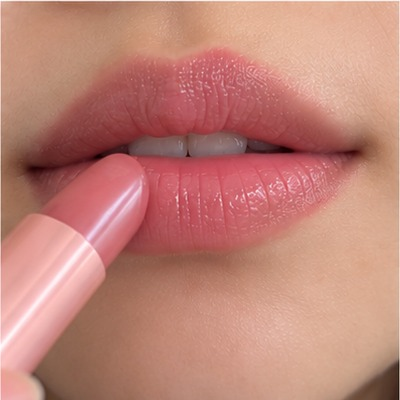
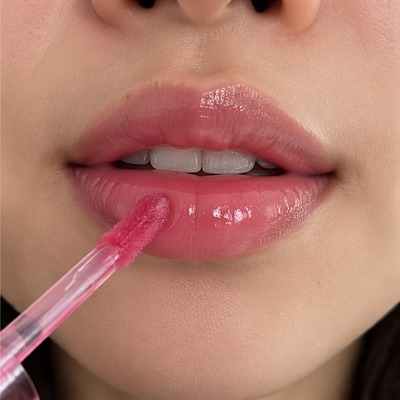
Replace three step photos so they match their instructions
Claude-Session: https://claude.ai/code/session_01QjyzJYtaNUJJbBbkSYZwKh

diff --git a/service-worker.js b/service-worker.js
@@ -1,4 +1,4 @@
-const CACHE='bloom-zen-v1-candidate-20261031-looks-prizes-v28'; const FILES=['./assets/prizes/r01.png','./assets/prizes/r02.png','./assets/prizes/r03.png','./assets/prizes/r04.png','./assets/prizes/r05.png','./assets/prizes/r06.png','./assets/prizes/s07.png','./assets/prizes/s08.png','./assets/prizes/s09.png','./assets/prizes/s10.png','./assets/prizes/s11.png','./assets/prizes/s12.png','./assets/prizes/s14.png','./assets/prizes/m02.png','./assets/prizes/m03.png','./assets/prizes/m04.png','./assets/prizes/m06.png','./assets/prizes/m07.png','./assets/prizes/m08.png','./assets/prizes/m09.png','./prizes/backup.js','./prizes/catalog.js','./prizes/core.js','./prizes/ui.js','./prizes/prizes.css','./assets/prizes/art-01.png','./assets/prizes/art-02.png','./assets/prizes/art-03.png','./assets/prizes/art-04.png','./assets/prizes/art-05.png','./assets/prizes/art-06.png','./assets/prizes/art-07.png','./assets/prizes/art-08.png','./assets/prizes/art-09.png','./assets/prizes/art-10.png','./assets/prizes/art-11.png','./assets/prizes/art-12.png','./assets/companion/awake.webp','./assets/companion/happy.webp','./assets/companion/sleep.webp','./assets/companion/moss-buddy.png','./','./index.html','./bloom-core.js','./receipt-parser.js','./receipt-image.js','./receipt-invoice.js','./recipe-drafts.js','./recipe-moods.js','./recipe-response.js','./recipe-media.js','./vendor/ocr/tesseract.min.js','./vendor/ocr/worker.min.js',...['mapo-tofu','doenjang-stew','garlic-tofu-bowl','coconut-seafood-noodles','kimchi-egg-rice','dumpling-soup','tuna-mayo-rice','garlic-edamame'].map(id=>'./assets/recipes/'+id+'.png'),...['date-brows-1.jpg', 'date-brows-2.jpg', 'date-brows-3.jpg', 'date-eyes-1.jpg', 'date-eyes-2.jpg', 'date-eyes-3.jpg', 'date-eyes-4.jpg', 'date-hair-1.jpg', 'date-hair-2.jpg', 'date-hair-3.jpg', 'date-hair-4.jpg', 'date-hero.jpg', 'date-lips-1.jpg', 'date-lips-2.jpg', 'date-lips-3.jpg', 'date-lips-4.jpg', 'date-skin-1.jpg', 'date-skin-2.jpg', 'date-skin-3.jpg', 'date-skin-4.jpg', 'event-brows-1.jpg', 'event-brows-2.jpg', 'event-brows-3.jpg', 'event-eyes-1.jpg', 'event-eyes-2.jpg', 'event-eyes-3.jpg', 'event-hair-1.jpg', 'event-hair-2.jpg', 'event-hair-3.jpg', 'event-hero.jpg', 'event-lips-1.jpg', 'event-lips-2.jpg', 'event-lips-3.jpg', 'event-skin-1.jpg', 'event-skin-2.jpg', 'event-skin-3.jpg', 'lazy-brows-1.jpg', 'lazy-eyes-1.jpg', 'lazy-eyes-2.jpg', 'lazy-hair-1.jpg', 'lazy-hair-2.jpg', 'lazy-hair-3.jpg', 'lazy-hero.jpg', 'lazy-lips-1.jpg', 'lazy-skin-1.jpg', 'lazy-skin-2.jpg', 'office-brows-1.jpg', 'office-brows-2.jpg', 'office-brows-3.jpg', 'office-eyes-1.jpg', 'office-eyes-2.jpg', 'office-eyes-3.jpg', 'office-hair-1.jpg', 'office-hair-2.jpg', 'office-hair-3.jpg', 'office-hero.jpg', 'office-lips-1.jpg', 'office-lips-2.jpg', 'office-skin-1.jpg', 'office-skin-2.jpg', 'office-skin-3.jpg', 'street-brows-1.jpg', 'street-brows-2.jpg', 'street-eyes-1.jpg', 'street-eyes-2.jpg', 'street-hair-1.jpg', 'street-hair-2.jpg', 'street-hair-3.jpg', 'street-hero.jpg', 'street-lips-1.jpg', 'street-skin-1.jpg', 'street-skin-2.jpg', 'street-skin-3.jpg', 'glass-hero.jpg', 'glass-base-1.jpg', 'glass-base-2.jpg', 'glass-spf-1.jpg', 'glass-cc-1.jpg', 'glass-blush-1.jpg', 'glass-lips-1.jpg', 'cherry-hero.jpg', 'cherry-spf-1.jpg', 'cherry-cushion-1.jpg', 'cherry-brows-1.jpg', 'cherry-lashes-1.jpg', 'cherry-lashes-2.jpg', 'cherry-blush-1.jpg', 'cherry-lips-1.jpg', 'grunge-hero.jpg', 'grunge-spf-1.jpg', 'grunge-base-1.jpg', 'grunge-liner-1.jpg', 'grunge-liner-2.jpg', 'grunge-lashes-1.jpg', 'grunge-lips-1.jpg', 'grunge-lips-2.jpg', 'grunge-hair-1.jpg', 'clean-hero.jpg', 'clean-spf-1.jpg', 'clean-hair-1.jpg', 'clean-hair-2.jpg', 'clean-brows-1.jpg', 'clean-lashes-1.jpg', 'clean-powder-1.jpg', 'clean-lips-1.jpg', 'strawberry-hero.jpg', 'strawberry-spf-1.jpg', 'strawberry-cushion-1.jpg', 'strawberry-blush-1.jpg', 'strawberry-lashes-1.jpg', 'strawberry-lashes-2.jpg', 'strawberry-lips-1.jpg', 'strawberry-powder-1.jpg', 'redbean-hero.jpg', 'redbean-spf-1.jpg', 'redbean-cushion-1.jpg', 'redbean-brows-1.jpg', 'redbean-shadow-1.jpg', 'redbean-eyes-1.jpg', 'redbean-eyes-2.jpg', 'redbean-lips-1.jpg', 'redbean-lips-2.jpg', 'redbean-hair-1.jpg', 'glass-hair-1.jpg', 'cherry-hair-1.jpg', 'strawberry-hair-1.jpg'].map(f=>'./photos/'+f),'./manifest.webmanifest','./icon-192.png','./icon-512.png','./assets/training/seated-leg-press-2d.png','./assets/training/soft-lower-a.png','./assets/training/soft-upper-a.png','./assets/training/soft-lower-b.png','./assets/training/soft-upper-b.png','./assets/guides/glass-guide.png','./assets/guides/strawberry-guide.png','./assets/guides/grunge-guide.png','./assets/guides/cherry-guide.png','./assets/guides/clean-guide.png','./assets/guides/redbean-guide.png'];
+const CACHE='bloom-zen-v1-candidate-20261031-looks-prizes-v29'; const FILES=['./assets/prizes/r01.png','./assets/prizes/r02.png','./assets/prizes/r03.png','./assets/prizes/r04.png','./assets/prizes/r05.png','./assets/prizes/r06.png','./assets/prizes/s07.png','./assets/prizes/s08.png','./assets/prizes/s09.png','./assets/prizes/s10.png','./assets/prizes/s11.png','./assets/prizes/s12.png','./assets/prizes/s14.png','./assets/prizes/m02.png','./assets/prizes/m03.png','./assets/prizes/m04.png','./assets/prizes/m06.png','./assets/prizes/m07.png','./assets/prizes/m08.png','./assets/prizes/m09.png','./prizes/backup.js','./prizes/catalog.js','./prizes/core.js','./prizes/ui.js','./prizes/prizes.css','./assets/prizes/art-01.png','./assets/prizes/art-02.png','./assets/prizes/art-03.png','./assets/prizes/art-04.png','./assets/prizes/art-05.png','./assets/prizes/art-06.png','./assets/prizes/art-07.png','./assets/prizes/art-08.png','./assets/prizes/art-09.png','./assets/prizes/art-10.png','./assets/prizes/art-11.png','./assets/prizes/art-12.png','./assets/companion/awake.webp','./assets/companion/happy.webp','./assets/companion/sleep.webp','./assets/companion/moss-buddy.png','./','./index.html','./bloom-core.js','./receipt-parser.js','./receipt-image.js','./receipt-invoice.js','./recipe-drafts.js','./recipe-moods.js','./recipe-response.js','./recipe-media.js','./vendor/ocr/tesseract.min.js','./vendor/ocr/worker.min.js',...['mapo-tofu','doenjang-stew','garlic-tofu-bowl','coconut-seafood-noodles','kimchi-egg-rice','dumpling-soup','tuna-mayo-rice','garlic-edamame'].map(id=>'./assets/recipes/'+id+'.png'),...['date-brows-1.jpg', 'date-brows-2.jpg', 'date-brows-3.jpg', 'date-eyes-1.jpg', 'date-eyes-2.jpg', 'date-eyes-3.jpg', 'date-eyes-4.jpg', 'date-hair-1.jpg', 'date-hair-2.jpg', 'date-hair-3.jpg', 'date-hair-4.jpg', 'date-hero.jpg', 'date-lips-1.jpg', 'date-lips-2.jpg', 'date-lips-3.jpg', 'date-lips-4.jpg', 'date-skin-1.jpg', 'date-skin-2.jpg', 'date-skin-3.jpg', 'date-skin-4.jpg', 'event-brows-1.jpg', 'event-brows-2.jpg', 'event-brows-3.jpg', 'event-eyes-1.jpg', 'event-eyes-2.jpg', 'event-eyes-3.jpg', 'event-hair-1.jpg', 'event-hair-2.jpg', 'event-hair-3.jpg', 'event-hero.jpg', 'event-lips-1.jpg', 'event-lips-2.jpg', 'event-lips-3.jpg', 'event-skin-1.jpg', 'event-skin-2.jpg', 'event-skin-3.jpg', 'lazy-brows-1.jpg', 'lazy-eyes-1.jpg', 'lazy-eyes-2.jpg', 'lazy-hair-1.jpg', 'lazy-hair-2.jpg', 'lazy-hair-3.jpg', 'lazy-hero.jpg', 'lazy-lips-1.jpg', 'lazy-skin-1.jpg', 'lazy-skin-2.jpg', 'office-brows-1.jpg', 'office-brows-2.jpg', 'office-brows-3.jpg', 'office-eyes-1.jpg', 'office-eyes-2.jpg', 'office-eyes-3.jpg', 'office-hair-1.jpg', 'office-hair-2.jpg', 'office-hair-3.jpg', 'office-hero.jpg', 'office-lips-1.jpg', 'office-lips-2.jpg', 'office-skin-1.jpg', 'office-skin-2.jpg', 'office-skin-3.jpg', 'street-brows-1.jpg', 'street-brows-2.jpg', 'street-eyes-1.jpg', 'street-eyes-2.jpg', 'street-hair-1.jpg', 'street-hair-2.jpg', 'street-hair-3.jpg', 'street-hero.jpg', 'street-lips-1.jpg', 'street-skin-1.jpg', 'street-skin-2.jpg', 'street-skin-3.jpg', 'glass-hero.jpg', 'glass-base-1.jpg', 'glass-base-2.jpg', 'glass-spf-1.jpg', 'glass-cc-1.jpg', 'glass-blush-1.jpg', 'glass-lips-1.jpg', 'cherry-hero.jpg', 'cherry-spf-1.jpg', 'cherry-cushion-1.jpg', 'cherry-brows-1.jpg', 'cherry-lashes-1.jpg', 'cherry-lashes-2.jpg', 'cherry-blush-1.jpg', 'cherry-lips-1.jpg', 'grunge-hero.jpg', 'grunge-spf-1.jpg', 'grunge-base-1.jpg', 'grunge-liner-1.jpg', 'grunge-liner-2.jpg', 'grunge-lashes-1.jpg', 'grunge-lips-1.jpg', 'grunge-lips-2.jpg', 'grunge-hair-1.jpg', 'clean-hero.jpg', 'clean-spf-1.jpg', 'clean-hair-1.jpg', 'clean-hair-2.jpg', 'clean-brows-1.jpg', 'clean-lashes-1.jpg', 'clean-powder-1.jpg', 'clean-lips-1.jpg', 'strawberry-hero.jpg', 'strawberry-spf-1.jpg', 'strawberry-cushion-1.jpg', 'strawberry-blush-1.jpg', 'strawberry-lashes-1.jpg', 'strawberry-lashes-2.jpg', 'strawberry-lips-1.jpg', 'strawberry-powder-1.jpg', 'redbean-hero.jpg', 'redbean-spf-1.jpg', 'redbean-cushion-1.jpg', 'redbean-brows-1.jpg', 'redbean-shadow-1.jpg', 'redbean-eyes-1.jpg', 'redbean-eyes-2.jpg', 'redbean-lips-1.jpg', 'redbean-lips-2.jpg', 'redbean-hair-1.jpg', 'glass-hair-1.jpg', 'cherry-hair-1.jpg', 'strawberry-hair-1.jpg'].map(f=>'./photos/'+f),'./manifest.webmanifest','./icon-192.png','./icon-512.png','./assets/training/seated-leg-press-2d.png','./assets/training/soft-lower-a.png','./assets/training/soft-upper-a.png','./assets/training/soft-lower-b.png','./assets/training/soft-upper-b.png','./assets/guides/glass-guide.png','./assets/guides/strawberry-guide.png','./assets/guides/grunge-guide.png','./assets/guides/cherry-guide.png','./assets/guides/clean-guide.png','./assets/guides/redbean-guide.png'];
 self.addEventListener('install',e=>e.waitUntil(caches.open(CACHE).then(c=>c.addAll(FILES)).then(()=>self.skipWaiting())));
 self.addEventListener('activate',e=>e.waitUntil(caches.keys().then(keys=>Promise.all(keys.filter(k=>k.startsWith('bloom-zen-')&&k!==CACHE).map(k=>caches.delete(k)))).then(()=>self.clients.claim())));
 self.addEventListener('fetch',e=>{if(e.request.method!=='GET'||new URL(e.request.url).origin!==self.location.origin)return;const modelAsset=new URL(e.request.url).pathname.includes('/vendor/');e.respondWith(fetch(e.request).then(response=>{if(modelAsset&&response.ok){const copy=response.clone();e.waitUntil(caches.open(CACHE).then(c=>c.put(e.request,copy)))}return response}).catch(()=>caches.match(e.request)))});
